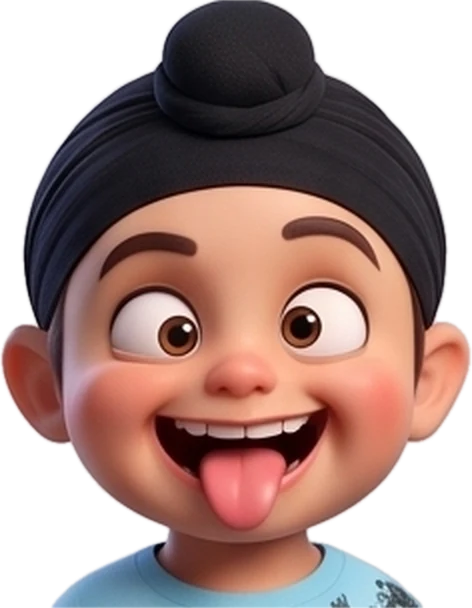
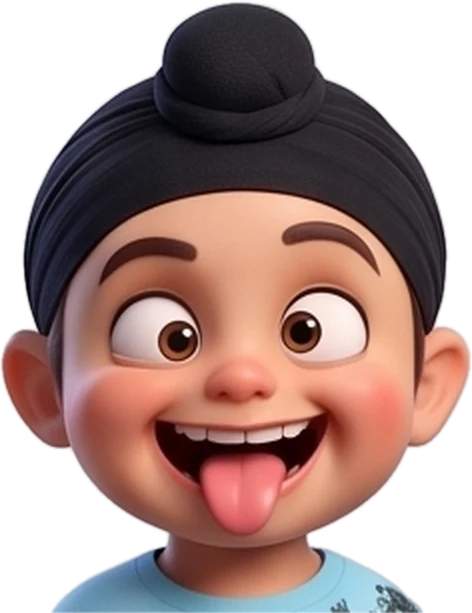
Jazz is always Jazz, Sukhi's pictures whole, same-sized children, and ticket invites
- A character's name is its person's. Jazz's are Jazz and Sukhi's are
  Sukhi, whoever picks one as theirs; the Character tab no longer calls
  Jazz's "You". A family's own with no name are theirs and go by their name,
  so the one added in the welcome is filed under the name given there.
- Sukhi's smiling, big grin, laughing and silly had the top of his bun cut
  off: the crop started inside the tile, where the bun nearly touches. They
  are cropped from just above it now, and his face circles leave room for
  the bun on stickers too.
- A picture is sized by the head as well as the space, so a whole Sukhi and
  a waist-up Jazz on two door signs come out the same size.
- A diary cover's logo has the cover's character in it: Sukhi's diary has
  Sukhi on its badge, not Jazz.
- The footer and About show Sukhi Play's own icon rather than Sukhi
  Colouring's, and the footer says "Part of Sukhi Play" without writing out
  the address as well: the name is the link.
- The invite cards are tickets: a stub in her pattern holding the code on a
  white tile, a perforation with notches, and "You're invited" with her
  words large on the other side. The code still reads, checked with the face
  drawn over it at about 100 dpi.

diff --git a/src/play/invite.ts b/src/play/invite.ts
@@ -1,6 +1,6 @@
 /**
  * Invite cards: eight to an A4 page, the size of a business card, to cut out
- * and give to friends. Each has a QR code a phone or tablet camera opens the
+ * and give to friends. Each is a ticket, with a QR code a phone or tablet camera opens the
  * studio's page from, with her character's face in the middle of it, her
  * words across the top, the address written out for anyone without a camera,
  * and who it is from.
@@ -25,40 +25,76 @@ const SHOWN = 'sukhiplay.com/studio';
 /** The one code every card shares; worked out once. */
 let code: ReturnType<typeof qr> | null = null;
 
+/**
+ * Her words in up to three lines, as big as will fit the width: the biggest
+ * size at which no line runs over. Letters are taken as a little over half
+ * as wide as they are tall, which heavy lettering is.
+ */
+function wrap (text: string, width: number, big: number, small: number): { lines: string[]; size: number } {
+  const words = text.split(/\s+/).filter(Boolean);
+  for (let size = big; size >= small; size -= 0.2) {
+    const per = Math.floor(width / (size * 0.58));
+    const lines: string[] = [];
+    for (const w of words) {
+      const last = lines[lines.length - 1];
+      if (last !== undefined && (last + ' ' + w).length <= per) lines[lines.length - 1] = `${last} ${w}`;
+      else lines.push(w);
+    }
+    if (lines.length <= 3 && lines.every((l) => l.length <= per)) return { lines, size };
+  }
+  return { lines: [text], size: fit(text, width, small) };
+}
+
+/**
+ * The card is a ticket: a stub on the left in her pattern, holding the code
+ * on a white tile (a code needs white around it to read), a perforation with
+ * a notch cut top and bottom, and the invitation on the right.
+ */
 export function inviteSheet (words: string, pose: PoseId, from: string, look: Look): string {
   code ??= qr(INVITE_LINK, 'H');
   const ink = inkOf(look);
   const say = words.trim() || 'Come and make things with me!';
   const who = from.trim();
+  const head = wrap(say, 34, 6.2, 3.6);
   let body = '';
   for (let i = 0; i < 8; i++) {
     const x = 17.5 + (i % 2) * 90;
     const y = 18 + Math.floor(i / 2) * 66;
+    const cut = x + 41; // the perforation
+    const n = 2.6; // the notches' radius
+    const outline = `M${x + 4} ${y} H${cut - n} A${n} ${n} 0 0 0 ${cut + n} ${y} H${x + 81} A4 4 0 0 1 ${x + 85} ${y + 4} ` +
+      `V${y + 51} A4 4 0 0 1 ${x + 81} ${y + 55} H${cut + n} A${n} ${n} 0 0 0 ${cut - n} ${y + 55} H${x + 4} ` +
+      `A4 4 0 0 1 ${x} ${y + 51} V${y + 4} A4 4 0 0 1 ${x + 4} ${y}Z`;
     const clip = `ic${i}`;
-    // The card, with a band of her pattern across the top and her words on it.
-    body += `<clipPath id="${clip}"><rect x="${x}" y="${y}" width="85" height="55" rx="4"/></clipPath>` +
-      `<rect x="${x}" y="${y}" width="85" height="55" rx="4" fill="#fff" stroke="${look.accent}" stroke-width=".6"/>` +
-      `<rect x="${x}" y="${y}" width="85" height="13" fill="url(#${i % 2 ? 'ip2' : 'ip1'})" clip-path="url(#${clip})"/>` +
-      `<rect x="${x + 5}" y="${y + 3}" width="75" height="7" rx="3.5" fill="${look.paper}"/>` +
-      `<text x="${x + 42.5}" y="${y + 7.9}" text-anchor="middle" font-size="${fit(say, 70, 4.4)}" font-weight="900" fill="${look.ink}">${esc(say)}</text>`;
-    // The code, with her face in the middle where the code can spare it.
-    const q = 38;
-    const qx = x + 3;
-    const qy = y + 15;
+    body += `<clipPath id="${clip}"><path d="${outline}"/></clipPath>` +
+      `<path d="${outline}" fill="#fff"/>` +
+      // The stub, in her pattern.
+      `<rect x="${x}" y="${y}" width="41" height="55" fill="url(#${i % 2 ? 'ip2' : 'ip1'})" clip-path="url(#${clip})"/>` +
+      `<path d="M${cut} ${y + n + 1.2} V${y + 55 - n - 1.2}" stroke="${ink}" stroke-width=".35" stroke-dasharray="1.2 1.2" opacity=".45"/>` +
+      `<path d="${outline}" fill="none" stroke="${look.accent}" stroke-width=".5"/>`;
+    // "Scan me" and the code, her face in the middle of it.
+    const q = 33;
+    const qx = x + 4;
+    const qy = y + 16.5;
     const r = q * (code.size / (code.size + 8)) * 0.15;
-    body += qrSvg(code, qx, qy, q, '#111', 0.3) +
+    body += `<rect x="${x + 8.5}" y="${y + 5}" width="24" height="7.6" rx="3.8" fill="${look.paper}"/>` +
+      `<text x="${x + 20.5}" y="${y + 10.1}" text-anchor="middle" font-size="4.2" font-weight="900" fill="${look.ink}" letter-spacing=".3">Scan me</text>` +
+      `<rect x="${qx - 1}" y="${qy - 1}" width="${q + 2}" height="${q + 2}" rx="3" fill="#fff"/>` +
+      qrSvg(code, qx, qy, q, '#111', 0.3) +
       `<circle cx="${qx + q / 2}" cy="${qy + q / 2}" r="${r + 0.6}" fill="#fff"/>` +
       `<circle cx="${qx + q / 2}" cy="${qy + q / 2}" r="${r}" fill="${look.accent2}"/>` +
       face(pose, qx + q / 2, qy + q / 2 - r * 0.04, r * 0.98, `if${i}`);
-    // What to do with it, for whoever it is given to.
-    const tx = x + 44;
-    body += `<text x="${tx}" y="${y + 24}" font-size="6.2" font-weight="900" fill="${look.accent}">Scan me</text>` +
-      `<text x="${tx}" y="${y + 29}" font-size="2.7" fill="${ink}" opacity=".8">with a phone or tablet</text>` +
-      `<text x="${tx}" y="${y + 32.4}" font-size="2.7" fill="${ink}" opacity=".8">camera, or go to</text>` +
-      `<text x="${tx}" y="${y + 37.2}" font-size="${fit(SHOWN, 36, 3.4)}" font-weight="900" fill="${ink}">${SHOWN}</text>` +
-      `<text x="${tx}" y="${y + 41.4}" font-size="2.5" fill="${ink}" opacity=".7">Free, and no sign-up</text>` +
-      (who ? `<text x="${tx}" y="${y + 49.5}" font-size="${fit(`From ${who}`, 37, 4.6)}" font-weight="900" fill="${look.accent}">From ${esc(who)}</text>` : '') +
-      `<rect x="${x - 1.5}" y="${y - 1.5}" width="88" height="58" rx="5" ${CUT} stroke="${ink}" opacity=".35"/>`;
+    // The invitation.
+    const tx = x + 45;
+    const lh = head.size * 1.12;
+    const top = y + 17 + (3 - head.lines.length) * lh * 0.35;
+    body += `<text x="${tx}" y="${y + 9}" font-size="2.9" font-weight="900" fill="${look.accent}" letter-spacing=".5">YOU'RE INVITED</text>` +
+      head.lines.map((line, j) => `<text x="${tx}" y="${(top + j * lh).toFixed(2)}" font-size="${head.size.toFixed(2)}" font-weight="900" fill="${ink}">${esc(line)}</text>`).join('') +
+      `<path d="M${tx} ${y + 39} H${x + 81}" stroke="${look.accent}" stroke-width=".4" opacity=".5"/>` +
+      `<text x="${tx}" y="${y + 43.6}" font-size="2.6" fill="${ink}" opacity=".75">Free, no sign-up. Or go to</text>` +
+      `<text x="${tx}" y="${y + 47.4}" font-size="${fit(SHOWN, 36, 3.2)}" font-weight="900" fill="${look.accent}">${SHOWN}</text>` +
+      (who ? `<text x="${x + 81}" y="${y + 52.4}" text-anchor="end" font-size="${fit(`from ${who}`, 30, 3.4)}" font-weight="800" fill="${ink}" opacity=".85">from ${esc(who)}</text>` : '') +
+      `<path d="${outline}" transform="translate(${x + 42.5} ${y + 27.5}) scale(1.035 1.055) translate(${-(x + 42.5)} ${-(y + 27.5)})" ${CUT} stroke="${ink}" opacity=".3"/>`;
   }
   return `<svg class="sheet-svg" xmlns="http://www.w3.org/2000/svg" viewBox="0 0 210 297" role="img" aria-label="Invite cards" style="font-family:${fontOf(look)}">` +
     `<defs>${defs('ip1', look.pattern, look, 0.6)}${defs('ip2', look.pattern, { ...look, accent: look.accent2, accent2: look.accent }, 0.6)}</defs>` +

diff --git a/src/character.ts b/src/character.ts
@@ -7,9 +7,10 @@
  * the browser (see cutout.ts) and kept in IndexedDB on this device.
  *
  * Every character belongs to a person, who has a name: Jazz, Sukhi, or the
- * name a family's own was given, which is how a friend comes in. The person
- * whose character is "yours" goes by your name instead. A sheet with several
- * people on it puts each one's name with their face (see nameFor).
+ * name a family's own was given, which is how a friend comes in; one with no
+ * name is theirs, and goes by their name. Jazz is always Jazz: picking one of
+ * hers as yours does not make her you. A sheet with several people on it puts
+ * each one's name with their face (see nameFor).
  *
  * Which are in the list: a family's own, and Jazz's and Sukhi's where they are
  * switched on in Make it yours (Look.sets). Never none: with nothing else,
@@ -70,12 +71,12 @@ export const JAZZ: Pose[] = [
  * like hers. Six expressions, head and shoulders, and one of him painting.
  */
 export const SUKHI: Pose[] = [
-  { id: 'sukhi-smiling', label: 'Smiling', url: sSmiling, w: 491, h: 604, cx: 246, cy: 242, d: 483 },
-  { id: 'sukhi-grin', label: 'Big grin', url: sGrin, w: 496, h: 604, cx: 248, cy: 242, d: 483 },
-  { id: 'sukhi-laughing', label: 'Laughing', url: sLaughing, w: 496, h: 604, cx: 248, cy: 242, d: 483 },
-  { id: 'sukhi-silly', label: 'Silly', url: sSilly, w: 472, h: 608, cx: 235, cy: 243, d: 486 },
-  { id: 'sukhi-thinking', label: 'Thinking', url: sThinking, w: 455, h: 604, cx: 228, cy: 242, d: 483 },
-  { id: 'sukhi-proud', label: 'Proud', url: sProud, w: 459, h: 604, cx: 228, cy: 242, d: 483 },
+  { id: 'sukhi-smiling', label: 'Smiling', url: sSmiling, w: 491, h: 611, cx: 246, cy: 251, d: 525 },
+  { id: 'sukhi-grin', label: 'Big grin', url: sGrin, w: 496, h: 611, cx: 248, cy: 251, d: 525 },
+  { id: 'sukhi-laughing', label: 'Laughing', url: sLaughing, w: 496, h: 611, cx: 248, cy: 251, d: 525 },
+  { id: 'sukhi-silly', label: 'Silly', url: sSilly, w: 472, h: 613, cx: 235, cy: 251, d: 527 },
+  { id: 'sukhi-thinking', label: 'Thinking', url: sThinking, w: 455, h: 606, cx: 228, cy: 248, d: 521 },
+  { id: 'sukhi-proud', label: 'Proud', url: sProud, w: 459, h: 607, cx: 228, cy: 249, d: 522 },
   { id: 'sukhi-painting', label: 'Painting', url: sPainting, w: 632, h: 848, cx: 337, cy: 198, d: 405 }
 ].map((p) => ({ ...p, who: 'Sukhi' as const }));
 
@@ -169,19 +170,23 @@ const unnamed = (label: string): boolean => {
 /** Which person a character belongs to. */
 export function personOf (p: Pose): string {
   if (p.who) return p.who.toLowerCase();
-  return unnamed(p.label) ? 'me' : `own:${p.label.trim().toLowerCase()}`;
+  if (!unnamed(p.label)) return `own:${p.label.trim().toLowerCase()}`;
+  // Theirs. Someone whose name is Jazz (on Jazz's own iPad) is Jazz, so what
+  // she adds goes with her ready-made ones rather than making a second Jazz.
+  const me = look().name.trim().toLowerCase();
+  return me === 'jazz' || me === 'sukhi' ? me : 'me';
 }
 
 /**
- * The name to put with a character on a sheet. The person whose character is
- * "yours" goes by your name (which may be empty, if you did not give one);
- * anyone else by theirs.
+ * The name to put with a character on a sheet: the person it belongs to.
+ * Jazz's are Jazz and Sukhi's are Sukhi, whoever picked them as their own. A
+ * family's goes by the name it was given, or theirs if it has none, so it
+ * follows their name if they change it.
  */
 export function nameFor (id: PoseId, l: Look): string {
   const p = pose(id);
-  const mine = personOf(p) === 'me' || personOf(p) === personOf(pose(l.pose));
-  if (mine) return l.name.trim();
-  return p.who ?? p.label.trim();
+  if (p.who) return p.who;
+  return unnamed(p.label) ? l.name.trim() : p.label.trim();
 }
 
 /** The people in the list, in order, each with their characters: for pickers that group by person. */
@@ -233,7 +238,11 @@ let figures = 0;
  */
 export function figure (id: PoseId, x: number, y: number, w: number, h: number): string {
   const p = pose(id);
-  const k = Math.min(w / p.w, h / p.h);
+  // Sized by the head as well as the box: a picture of the whole of Sukhi
+  // and one of Jazz from the waist up, side by side on two door signs, would
+  // otherwise make him twice her size. No head is wider than six tenths of
+  // the box's shorter side, so the children come out the same size.
+  const k = Math.min(w / p.w, h / p.h, (Math.min(w, h) * 0.6) / p.d);
   const fw = p.w * k;
   const fh = p.h * k;
   const fx = +(x + (w - fw) / 2).toFixed(2);

diff --git a/src/rooms/characters.ts b/src/rooms/characters.ts
@@ -26,7 +26,7 @@
  */
 import { look, setLook } from '../look';
 import {
-  poses, pose, hasOwn, img, faceImg, saveOwn, removeOwn, nudgeOwn, renameOwn, people, personOf, setsNow, useSets,
+  poses, pose, hasOwn, img, faceImg, saveOwn, removeOwn, nudgeOwn, renameOwn, people, setsNow, useSets,
   JAZZ, SUKHI
 } from '../character';
 import { cutOut, photoOf, type Cut } from '../cutout';
@@ -104,7 +104,7 @@ export function characterTab (): string {
         }).join('')}
       </div>
       ${people(l).map((g) => `<div class="person">
-        <h3 class="person-name">${g.key === personOf(mine) ? `You${l.name ? ` <small>${esc(l.name)}</small>` : ''}` : esc(g.name)}</h3>
+        <h3 class="person-name">${esc(g.name)}${g.key === 'me' && l.name ? ' <small>you</small>' : ''}</h3>
         <div class="chars" role="radiogroup" aria-label="${esc(g.name)}">
         ${g.poses.map((p) => `<figure class="char${p.own ? ' char--own' : ''}${p.id === mine.id ? ' char--mine' : ''}">
           <button type="button" class="char-pick" role="radio" data-choose="${p.id}" aria-checked="${p.id === mine.id}" aria-label="${esc(p.label || g.name)}">
@@ -112,7 +112,7 @@ export function characterTab (): string {
             ${p.id === mine.id ? '<span class="char-badge">Yours</span>' : ''}
           </button>
           ${p.own
-            ? `<input class="char-name" data-rename="${p.id}" value="${esc(unnamedLabel(p.label) ? '' : p.label)}" maxlength="20" placeholder="Whose? You" aria-label="Whose character is this? Leave it empty for you">
+            ? `<input class="char-name" data-rename="${p.id}" value="${esc(unnamedLabel(p.label) ? l.name.trim() : p.label)}" maxlength="20" placeholder="${esc(l.name.trim() || 'Your name')}" aria-label="Whose character is this? Leave it as your name for yours">
                <div class="char-tools">
                  <button type="button" class="mini" data-nudge="${p.id}" data-dy="-0.06" title="Move the face up" aria-label="Move up">${ICONS.up}</button>
                  <button type="button" class="mini" data-nudge="${p.id}" data-dy="0.06" title="Move the face down" aria-label="Move down">${ICONS.down}</button>

diff --git a/src/main.ts b/src/main.ts
@@ -22,7 +22,7 @@ import { GROUPS } from './sheets';
 import { makesRoom } from './rooms/makes';
 import { yoursRoom } from './rooms/yours';
 import { install, installed } from './install';
-import sukhiMark from './assets/sukhi.png';
+import sukhiMark from './assets/sukhi-play.png';
 import { inSukhiPlay } from './ui';
 import { openKeep } from './rooms/keep';
 import { showing } from './prints';
@@ -95,8 +95,10 @@ function foot (): string {
   const link = (text: string): string => inSukhiPlay
     ? `<b>${text}</b>`
     : `<a href="https://sukhiplay.com" target="_blank" rel="noopener">${text}</a>`;
+  // Sukhi Play's own icon, not Sukhi Colouring's: the studio belongs to Sukhi
+  // Play. The name is the link, so the address is not written out as well.
   return `<footer class="foot"><img src="${sukhiMark}" alt="" width="28" height="28">` +
-    `<span>Part of ${link('Sukhi Play')}</span><span class="foot-dot" aria-hidden="true">·</span>${link('sukhiplay.com')}</footer>`;
+    `<span>Part of ${link('Sukhi Play')}</span></footer>`;
 }
 
 function top (r: Room, thing?: string): string {

diff --git a/src/sheets.ts b/src/sheets.ts
@@ -267,7 +267,9 @@ export function sheet (kind: Kind, o: Options, look: Look): string {
         `<circle cx="105" cy="146" r="58" fill="${look.accent}" opacity=".2"/>` +
         figure(me, 38, 78, 134, 128) +
         `<rect x="26" y="206" width="158" height="1" fill="${look.accent}" opacity=".6"/>` +
-        logo(look, 34, 214, 46) +
+        // The logo on a diary cover has the cover's character in it, not
+        // whoever is the studio's own: Sukhi's diary has Sukhi on its badge.
+        logo({ ...look, brand: { ...look.brand, pose: me } }, 34, 214, 46) +
         `<g transform="rotate(-8 150 240)"><rect x="118" y="226" width="64" height="24" rx="3" fill="none" stroke="${look.accent2}" stroke-width="1.6"/>` +
         `<text x="150" y="236.5" text-anchor="middle" font-size="6.5" font-weight="900" fill="${look.accent2}" letter-spacing="1">PRIVATE</text>` +
         `<text x="150" y="245" text-anchor="middle" font-size="5" font-weight="800" fill="${look.accent2}" letter-spacing="1">KEEP OUT</text></g>` +

diff --git a/src/style.css b/src/style.css
@@ -129,7 +129,6 @@ img { display: block; max-width: 100%; }
 }
 .foot img { width: 28px; height: 28px; border-radius: 8px; }
 .foot a, .foot b { color: inherit; font-weight: 800; }
-.foot-dot { opacity: .5; }
 
 .home-btn {
   display: inline-flex;
@@ -857,8 +856,9 @@ img { display: block; max-width: 100%; }
 .person { margin-top: 18px; }
 .person-name { margin: 0 0 8px; font-size: 16px; font-weight: var(--heavy); }
 .person-name small { font-size: 14px; font-weight: 700; opacity: .7; margin-left: 4px; }
-.chars--add { margin-top: 18px; align-items: center; }
-.add-who { margin: 0; }
+.chars--add { display: flex; flex-wrap: wrap; align-items: center; gap: 16px; margin-top: 18px; }
+.chars--add .char--add { flex: 0 0 150px; }
+.add-who { flex: 1 1 200px; max-width: 420px; margin: 0; }
 .card .poses { grid-template-columns: repeat(6, minmax(0, 1fr)); margin-top: 8px; }
 .card .colourbar { box-shadow: none; background: var(--card2); margin-top: 10px; }
 

diff --git a/src/rooms/yours.ts b/src/rooms/yours.ts
@@ -18,7 +18,7 @@
 import { look, setLook, useScheme, reset, SCHEMES, LETTERING, BACKDROPS, type Backdrop, type Lettering } from '../look';
 import { ICONS } from '../icons';
 import { esc, heading, colourBar, wireColours, wireChoice, refresh, confirmBox, studio, inSukhiPlay } from '../ui';
-import sukhiMark from '../assets/sukhi.png';
+import sukhiMark from '../assets/sukhi-play.png';
 import { characterTab, wireCharacterTab } from './characters';
 import { backdropPreview } from '../backdrops';
 

diff --git a/scripts/sukhi.py b/scripts/sukhi.py
@@ -42,7 +42,10 @@ def matte_tool():
 def main():
     sheet = Image.open(sys.argv[1]).convert('RGB')
     k = sheet.width / 922
-    boxes = {name: (COLS[c][0] + 5, ROWS[r][0] + 5, COLS[c][1] - 5, ROWS[r][1] - 5) for name, (r, c) in TILES.items()}
+    # In from the sides and bottom, where the tile's own edge is; but from a little
+    # above the top, because the top of his bun nearly touches it, and an inset
+    # there took the tip off it.
+    boxes = {name: (COLS[c][0] + 5, ROWS[r][0] - 3, COLS[c][1] - 5, ROWS[r][1] - 5) for name, (r, c) in TILES.items()}
     boxes['painting'] = PAINTING
     work = tempfile.mkdtemp()
     paths = []
